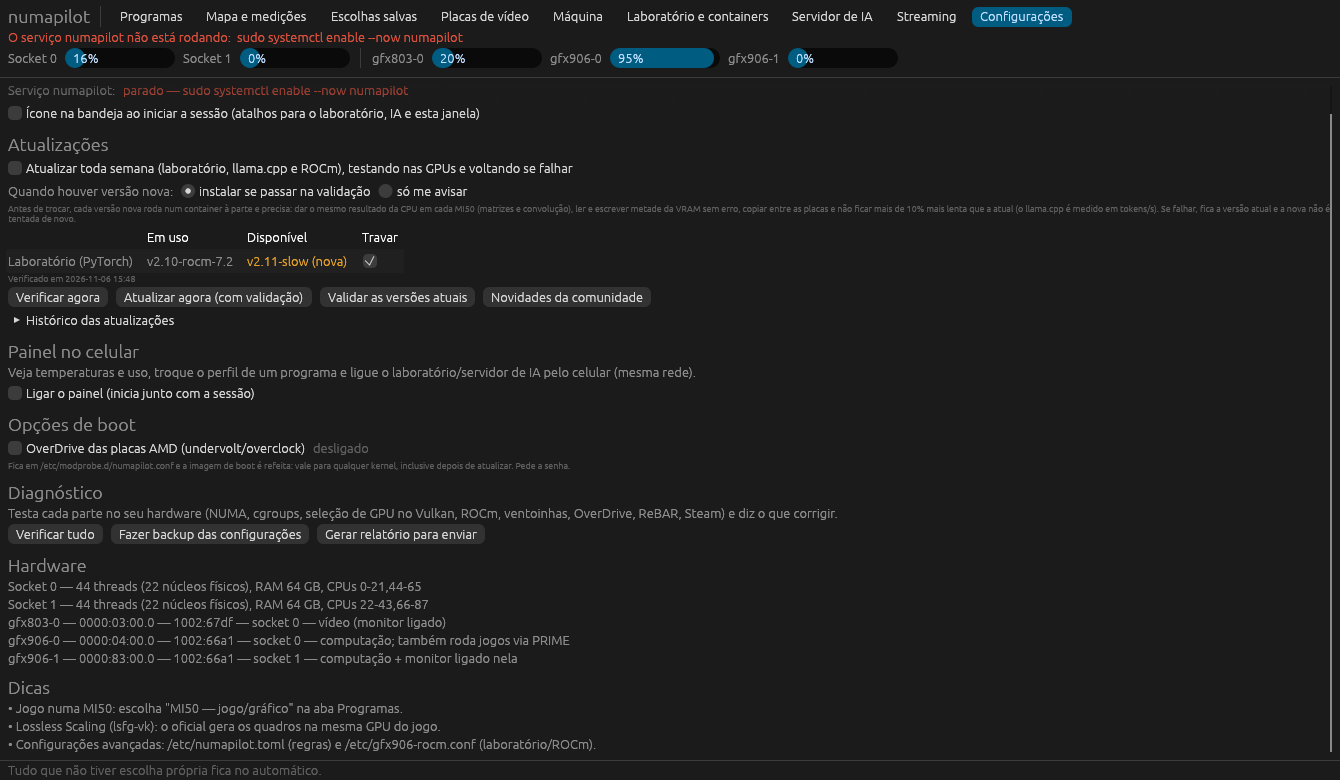
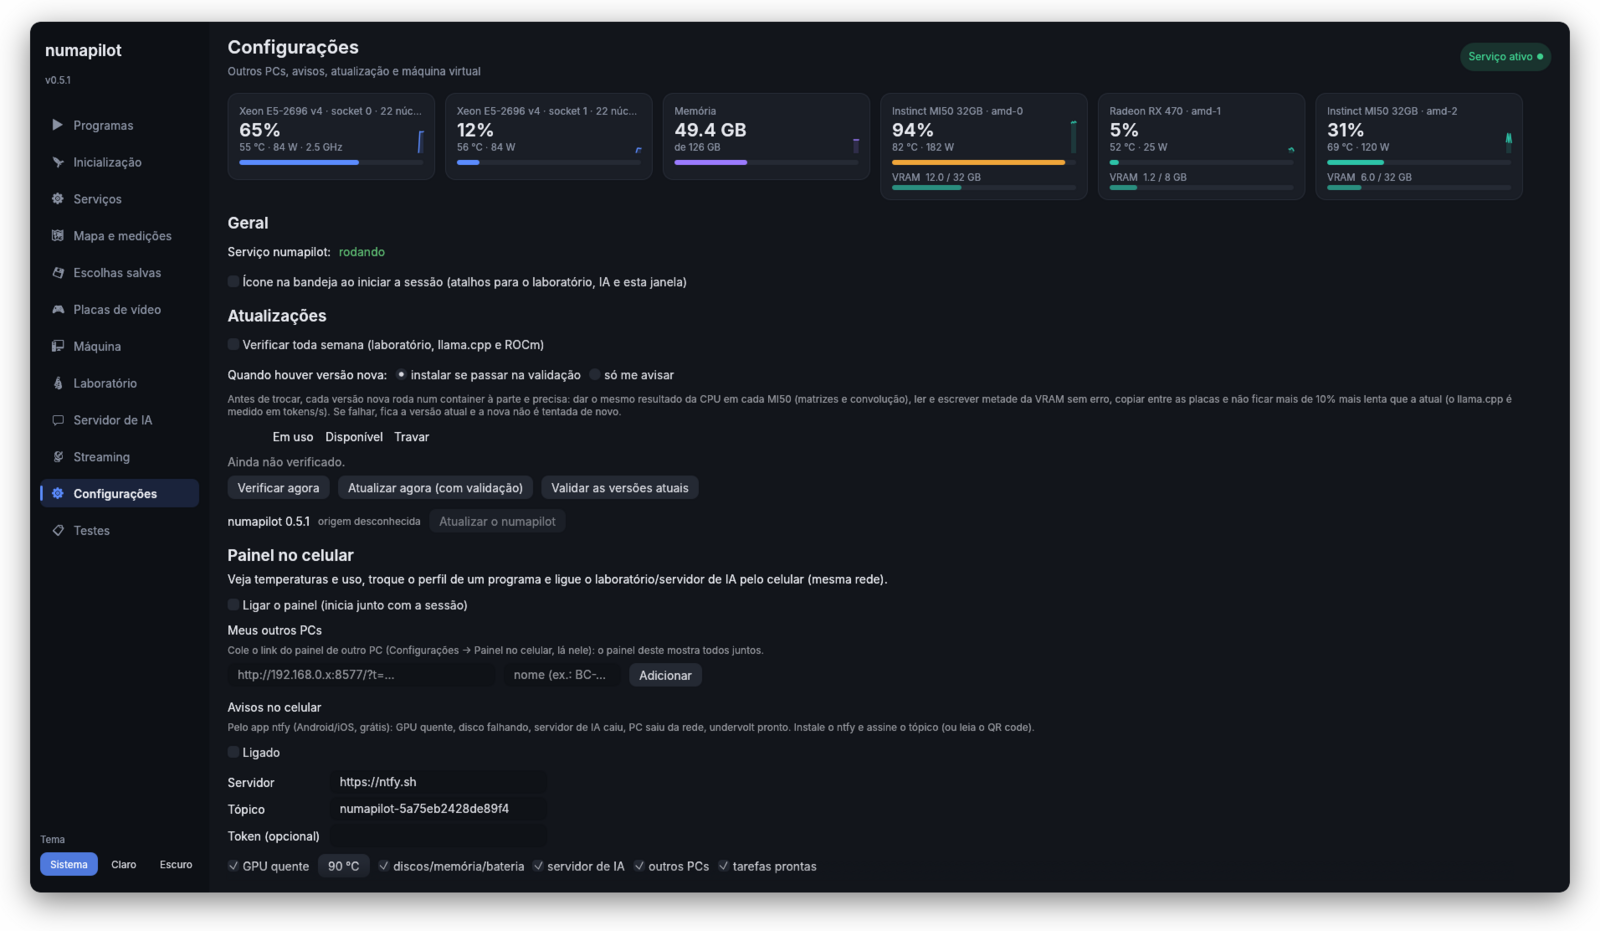
README com capturas novas, selos e galeria; ferramenta de capturas
- Capturas no tema atual de Placas de vídeo (histórico, curva da
  ventoinha, clock e voltagem), Máquina, notebook (NVIDIA híbrida e
  bateria), BC-250, Ajustar…, Otimizador de FPS, Laboratório e
  Configurações; as antigas eram da interface de antes do menu
  lateral. mitigacoes.png não era usada.
- README: selos (CI, versão, licença), atalhos, galeria clicável e
  aviso de quais capturas usam hardware simulado.
- tools/capturas: servidor, notebook e BC-250 de mentira, carga por
  thread falsa e captura numa tela virtual, para refazer as imagens.
  A interface aceita NUMAPILOT_GUI_SIZE e o leitor de CPU/memória
  aceita NUMAPILOT_PROC_STAT/NUMAPILOT_MEMINFO (só para isso).
- Cartão de VRAM das integradas: "0.4 / 0.5 GB" em vez de "/ 0 GB".

Claude-Session: https://claude.ai/code/session_01JaLAC3YoxBRZYaaPzqYegM

Changed region(s): [[0.0, 0.0, 1.0, 1.0], [0.3978, 0.0615, 0.7649, 0.2154], [0.8261, 0.0923, 0.9179, 0.2154]]

diff --git a/src/bin/numapilot-gui/main.rs b/src/bin/numapilot-gui/main.rs
@@ -191,6 +191,17 @@ pub(crate) fn pss_bytes(pid: i32) -> Option<u64> {
         .map(|kb| kb * 1024)
 }
 
+/// Tamanho inicial da janela; NUMAPILOT_GUI_SIZE=LxA muda (capturas de tela).
+fn window_size() -> [f32; 2] {
+    std::env::var("NUMAPILOT_GUI_SIZE")
+        .ok()
+        .and_then(|v| {
+            let (w, h) = v.split_once('x')?;
+            Some([w.trim().parse().ok()?, h.trim().parse().ok()?])
+        })
+        .unwrap_or([1340.0, 780.0])
+}
+
 /// "1.4 GB" / "350 MB"
 pub(crate) fn fmt_bytes(b: u64) -> String {
     let gb = b as f64 / 1073741824.0;
@@ -204,7 +215,9 @@ pub(crate) fn fmt_bytes(b: u64) -> String {
 /// Memória do sistema (em uso, total) em kB, pelo MemAvailable: o cache de arquivos não conta
 /// como "em uso" (ele é liberado sozinho quando falta memória).
 pub(crate) fn mem_system() -> (u64, u64) {
-    let t = std::fs::read_to_string("/proc/meminfo").unwrap_or_default();
+    // NUMAPILOT_MEMINFO: outro arquivo no lugar do /proc/meminfo (capturas de tela)
+    let path = std::env::var("NUMAPILOT_MEMINFO").unwrap_or_else(|_| "/proc/meminfo".into());
+    let t = std::fs::read_to_string(path).unwrap_or_default();
     let get = |k: &str| {
         t.lines()
             .find(|l| l.starts_with(k))
@@ -945,9 +958,14 @@ impl App {
                     let vram = l.vram.map(|(u, t)| {
                         (
                             format!(
-                                "VRAM  {:.1} / {:.0} GB",
+                                "VRAM  {:.1} / {} GB",
                                 u as f64 / 1073741824.0,
-                                t as f64 / 1073741824.0
+                                // integradas têm 0,5 GB: "/ 0 GB" confundia
+                                if t < 10 * 1073741824 {
+                                    format!("{:.1}", t as f64 / 1073741824.0)
+                                } else {
+                                    format!("{:.0}", t as f64 / 1073741824.0)
+                                }
                             ),
                             u as f32 / t.max(1) as f32,
                         )
@@ -1540,7 +1558,7 @@ fn main() -> eframe::Result {
         viewport: egui::ViewportBuilder::default()
             .with_title("numapilot — processador e placa de vídeo por programa")
             .with_app_id("numapilot")
-            .with_inner_size([1340.0, 780.0])
+            .with_inner_size(window_size())
             .with_min_inner_size([800.0, 400.0]),
         ..Default::default()
     };

diff --git a/tools/capturas/entrada.py b/tools/capturas/entrada.py
@@ -1,0 +1,25 @@
+# entrada no X de teste: xin.py move X Y | click X Y | scroll X Y N (N<0 sobe) | key NOME
+import sys, time
+from Xlib import X, display
+from Xlib.ext import xtest
+d = display.Display()
+a = sys.argv[1:]
+i = 0
+while i < len(a):
+    c = a[i]
+    if c == 'move':
+        xtest.fake_input(d, X.MotionNotify, x=int(a[i+1]), y=int(a[i+2])); i += 3
+    elif c == 'click':
+        xtest.fake_input(d, X.MotionNotify, x=int(a[i+1]), y=int(a[i+2])); d.sync(); time.sleep(0.15)
+        xtest.fake_input(d, X.ButtonPress, 1); d.sync(); time.sleep(0.05); xtest.fake_input(d, X.ButtonRelease, 1); i += 3
+    elif c == 'scroll':
+        xtest.fake_input(d, X.MotionNotify, x=int(a[i+1]), y=int(a[i+2])); d.sync()
+        n = int(a[i+3]); b = 5 if n > 0 else 4
+        for _ in range(abs(n)):
+            xtest.fake_input(d, X.ButtonPress, b); d.sync(); xtest.fake_input(d, X.ButtonRelease, b); d.sync(); time.sleep(0.03)
+        i += 4
+    elif c == 'sleep':
+        d.sync(); time.sleep(float(a[i+1])); i += 2
+    else:
+        i += 1
+    d.sync()

diff --git a/tools/capturas/cpu.py b/tools/capturas/cpu.py
@@ -1,0 +1,16 @@
+import time, math, random, os
+busy=[0]*88; tot=[0]*88; t=0
+def load(c,t):
+    s=(c//22)%2; core=c%22; ht=c>=44
+    if s==0 and core<16: return 0.88+0.1*math.sin(t/7+c)      # llama-server no socket 0
+    if s==1 and core<6: return 0.35+0.25*math.sin(t/5+c)       # jogo no socket 1
+    return max(0,0.04+0.04*math.sin(t/3+c*1.7)+(0.25 if random.random()<0.03 else 0))
+while os.path.exists('/tmp/vary.on'):
+    t+=1
+    for c in range(88):
+        l=min(1,max(0,load(c,t))); busy[c]+=int(100*l); tot[c]+=100
+    lines=["cpu  %d 0 0 %d 0 0 0 0 0 0"%(sum(busy),sum(tot)-sum(busy))]
+    for c in range(88):
+        lines.append("cpu%d %d 0 0 %d 0 0 0 0 0 0"%(c,busy[c],tot[c]-busy[c]))
+    open('/tmp/fakeproc/stat.tmp','w').write("\n".join(lines)+"\n"); os.replace('/tmp/fakeproc/stat.tmp','/tmp/fakeproc/stat')
+    time.sleep(1)

diff --git a/src/procfs.rs b/src/procfs.rs
@@ -213,7 +213,9 @@ pub fn threads(pid: i32) -> Vec<i32> {
 
 /// Ticks de CPU por CPU lógico a partir de /proc/stat: (ocupado, total)
 pub fn cpu_times() -> Vec<(usize, u64, u64)> {
-    let Ok(s) = fs::read_to_string("/proc/stat") else {
+    // NUMAPILOT_PROC_STAT: outro arquivo no lugar do /proc/stat (testes e capturas de tela)
+    let path = std::env::var("NUMAPILOT_PROC_STAT").unwrap_or_else(|_| "/proc/stat".into());
+    let Ok(s) = fs::read_to_string(path) else {
         return vec![];
     };
     s.lines()

diff --git a/tools/capturas/programa.c b/tools/capturas/programa.c
@@ -1,0 +1,6 @@
+#include <unistd.h>
+#include <stdlib.h>
+#include <string.h>
+#include <pthread.h>
+static double f; void* w(void*a){ long n=(long)a; for(;;){ for(long i=0;i<n*1000000;i++) f+=i*0.5; usleep(1000);} }
+int main(int c,char**v){ int t=c>1?atoi(v[1]):1; long n=c>2?atol(v[2]):5; long mb=c>3?atol(v[3]):0; if(mb){char*p=malloc(mb<<20); memset(p,1,mb<<20);} for(int i=0;i<t;i++){pthread_t p;pthread_create(&p,0,w,(void*)n);} for(;;) sleep(100); }

diff --git a/README.md b/README.md
@@ -1,5 +1,15 @@
 # numapilot
 
+[![CI](https://github.com/lucasfracaro/numapilot/actions/workflows/ci.yml/badge.svg)](https://github.com/lucasfracaro/numapilot/actions/workflows/ci.yml)
+[![Release](https://img.shields.io/github/v/release/lucasfracaro/numapilot?label=vers%C3%A3o)](https://github.com/lucasfracaro/numapilot/releases/latest)
+[![Licença MIT](https://img.shields.io/badge/licen%C3%A7a-MIT-blue)](LICENSE)
+![Linux](https://img.shields.io/badge/Linux-CachyOS%20%2F%20Arch-1793d1?logo=archlinux&logoColor=white)
+![Rust](https://img.shields.io/badge/Rust-2024-dea584?logo=rust&logoColor=white)
+
+[Instalar](#instalar) · [Capturas](#capturas) · [Interface](#a-interface-aba-por-aba) ·
+[Linha de comando](#linha-de-comando) · [Notebook](#notebook) · [BC-250](#bc-250-e-bc-160) ·
+[Novidades](CHANGELOG.md)
+
 Gerenciador de hardware e programas para Linux (feito no CachyOS): **um app só para controlar
 processador, memória, placas de vídeo, programas, serviços e o que abre com o sistema**, em
 qualquer PC: de um servidor com 2 processadores e placas de IA a um notebook gamer ou uma BC-250.
@@ -11,6 +21,15 @@ energia, saúde do hardware, inicialização e serviços (como o gerenciador de 
 o Mission Center), IA local, jogos e vários PCs num painel só.
 
 ![Aba Programas](docs/interface.png)
+
+## Capturas
+
+| | |
+|---|---|
+| [![Placas de vídeo](docs/gpus.png)](#placas-de-vídeo) **Placas de vídeo**: histórico, curva da ventoinha, clock e voltagem | [![Mapa e medições](docs/mapa.png)](#mapa-e-medições) **Mapa e medições**: cada thread, temperatura, disco e rede |
+| [![Máquina](docs/maquina.png)](#máquina) **Máquina**: modos, energia em kWh, saúde, processadores | [![Notebook](docs/nvidia.png)](#notebook) **Notebook**: bateria, NVIDIA só quando precisar, telas |
+| [![Inicialização](docs/inicializacao.png)](#inicialização) **Inicialização**: o que abre com o sistema | [![Serviços](docs/servicos.png)](#serviços) **Serviços**: systemd com estado, memória e log |
+| [![Ajustar programa](docs/editor.png)](#programas) **Ajustar…**: processador, memória e placa por programa | [![BC-250](docs/bc250.png)](#bc-250-e-bc-160) **BC-250**: programas da comunidade, CUs, memória da GPU |
 
 ## O que ele faz
 
@@ -121,6 +140,10 @@ O serviço `numapilot` (root) aplica tudo; a interface (`numapilot-gui`) e a lin
 com ele. Se o serviço parar, o que ele mudou volta ao que era. Comandos demorados rodam numa janela
 com a saída ao vivo, sem travar a interface. Temas claro e escuro; ícone na bandeja com
 temperaturas e atalhos (`numapilot-gui --tray`, ou Configurações).
+
+As capturas de Programas, Inicialização, Serviços e Mapa são do PC CC150. As de Placas de vídeo,
+Máquina, Ajustar…, notebook e BC-250 usam hardware simulado com valores de exemplo
+(`tools/capturas`), para mostrar cada tipo de máquina.
 
 ### Programas
 
@@ -557,7 +580,8 @@ container/         imagem do laboratório
 ```
 
 `cargo test` roda os testes, com várias máquinas simuladas por um sysfs falso
-(`NUMAPILOT_SYSFS`). A CI (GitHub Actions) roda formatação, testes, clippy, compilação sem
+(`NUMAPILOT_SYSFS`). As capturas de tela do README saem de `tools/capturas` (servidor, notebook e
+BC-250 de mentira, numa tela virtual); veja o README de lá. A CI (GitHub Actions) roda formatação, testes, clippy, compilação sem
 interface e shellcheck a cada push. Mudanças estão no [CHANGELOG](CHANGELOG.md).
 
 ## Licença e créditos

diff --git a/tools/capturas/README.md b/tools/capturas/README.md
@@ -1,0 +1,25 @@
+# Capturas de tela do README
+
+Gera as imagens de `docs/` sem precisar do hardware: um sysfs de mentira (`NUMAPILOT_SYSFS`), um
+`/proc/stat` com carga inventada (`NUMAPILOT_PROC_STAT`), memória (`NUMAPILOT_MEMINFO`) e a interface
+numa tela virtual. Precisa de `xorg-server-xvfb`, `imagemagick` e `python-xlib`, e do numapilot
+compilado (`cargo build --release`).
+
+```bash
+cd tools/capturas
+./servidor.sh /tmp/srv            # 2× Xeon E5-2696 v4 + 2× MI50 + RX 470 (ou notebook.sh, bc250.sh)
+mkdir -p /tmp/fakeproc && printf 'MemTotal: 131600000 kB\nMemAvailable: 79800000 kB\n' > /tmp/fakeproc/meminfo
+touch /tmp/vary.on && python3 cpu.py &   # carga por thread em /tmp/fakeproc/stat
+# o serviço, como root, contra o mesmo sysfs (histórico, potência, programas)
+sudo env NUMAPILOT_SYSFS=/tmp/srv NUMAPILOT_PROC_STAT=/tmp/fakeproc/stat ../../target/release/numapilot daemon &
+./capturar.sh 5 ../../docs/gpus.png 25 click 382 268 sleep 1   # aba Placas, histórico de 6 h
+```
+
+- `capturar.sh ABA SAIDA [ESPERA] [AÇÕES]`: as ações (`click X Y`, `scroll X Y N`, `sleep S`) vão
+  para o `entrada.py`, em coordenadas da janela.
+- `programa.c`: programa que gasta CPU e memória, para aparecer na aba Programas
+  (`gcc -O1 -pthread -o /usr/bin/obs programa.c`; rode com `NUMAPILOT_MODE=auto` e um usuário comum).
+- O histórico de 24 h das placas pode ser escrito direto em `/run/numapilot/history.json` antes de
+  iniciar o serviço.
+- Sem `nvidia-smi` de verdade, a NVIDIA do `notebook.sh` precisa de um `nvidia-smi` falso no PATH
+  (`FBIN`) que responda ao `--query-gpu`.

diff --git a/CHANGELOG.md b/CHANGELOG.md
@@ -1,5 +1,15 @@
 # Mudanças
 
+## Ainda não lançado
+
+- **Desinstalar…** nunca apaga pastas de ferramentas ou de trabalho como "pasta do programa"
+  (`~/go`, `~/.cargo`, `~/.conda`, `~/.dotnet`, `~/flutter`, `~/Projetos/...`, `~/Downloads`...).
+- Inicialização e Serviços: acesso remoto (`sshd`, Tailscale, ZeroTier), bluetooth, contas e rtkit
+  entram nos protegidos (desligar o ssh num PC sem tela tranca você fora).
+- Cartão de VRAM das integradas mostra "0.4 / 0.5 GB" em vez de "/ 0 GB".
+- README com capturas novas (tema atual), selos, galeria e `tools/capturas` para refazê-las
+  (`NUMAPILOT_GUI_TAB`, `NUMAPILOT_GUI_SIZE`, `NUMAPILOT_PROC_STAT`, `NUMAPILOT_MEMINFO`).
+
 ## 0.5.1 — 2026-11-09
 
 - Inicialização: **Detalhes** mostra de onde cada item vem (arquivo de inicialização e pacote dono,

diff --git a/CLAUDE.md b/CLAUDE.md
@@ -133,6 +133,13 @@ env/`sh -c`/intérpretes/flatpak; `source_from_path` npm/pipx/flatpak/comunidade
 /proc/diskstats (só discos inteiros), /sys/class/net (física ou VPN), /proc/PID/io por processo;
 `IoMonitor` mede as velocidades entre duas leituras.
 
+## Capturas do README
+
+`tools/capturas` (veja o README de lá): sysfs de mentira do servidor, notebook e BC-250, carga por
+thread falsa (`NUMAPILOT_PROC_STAT`), memória (`NUMAPILOT_MEMINFO`), janela no tamanho certo
+(`NUMAPILOT_GUI_SIZE`) e na aba certa (`NUMAPILOT_GUI_TAB`), cliques pelo `entrada.py` (python-xlib)
+numa tela Xvfb. Programas, Inicialização, Serviços e Mapa são capturas reais do CC150.
+
 ## Testar e registros
 
 - `numapilot autoteste` — confere tudo nesta máquina sem mudar nada e grava
